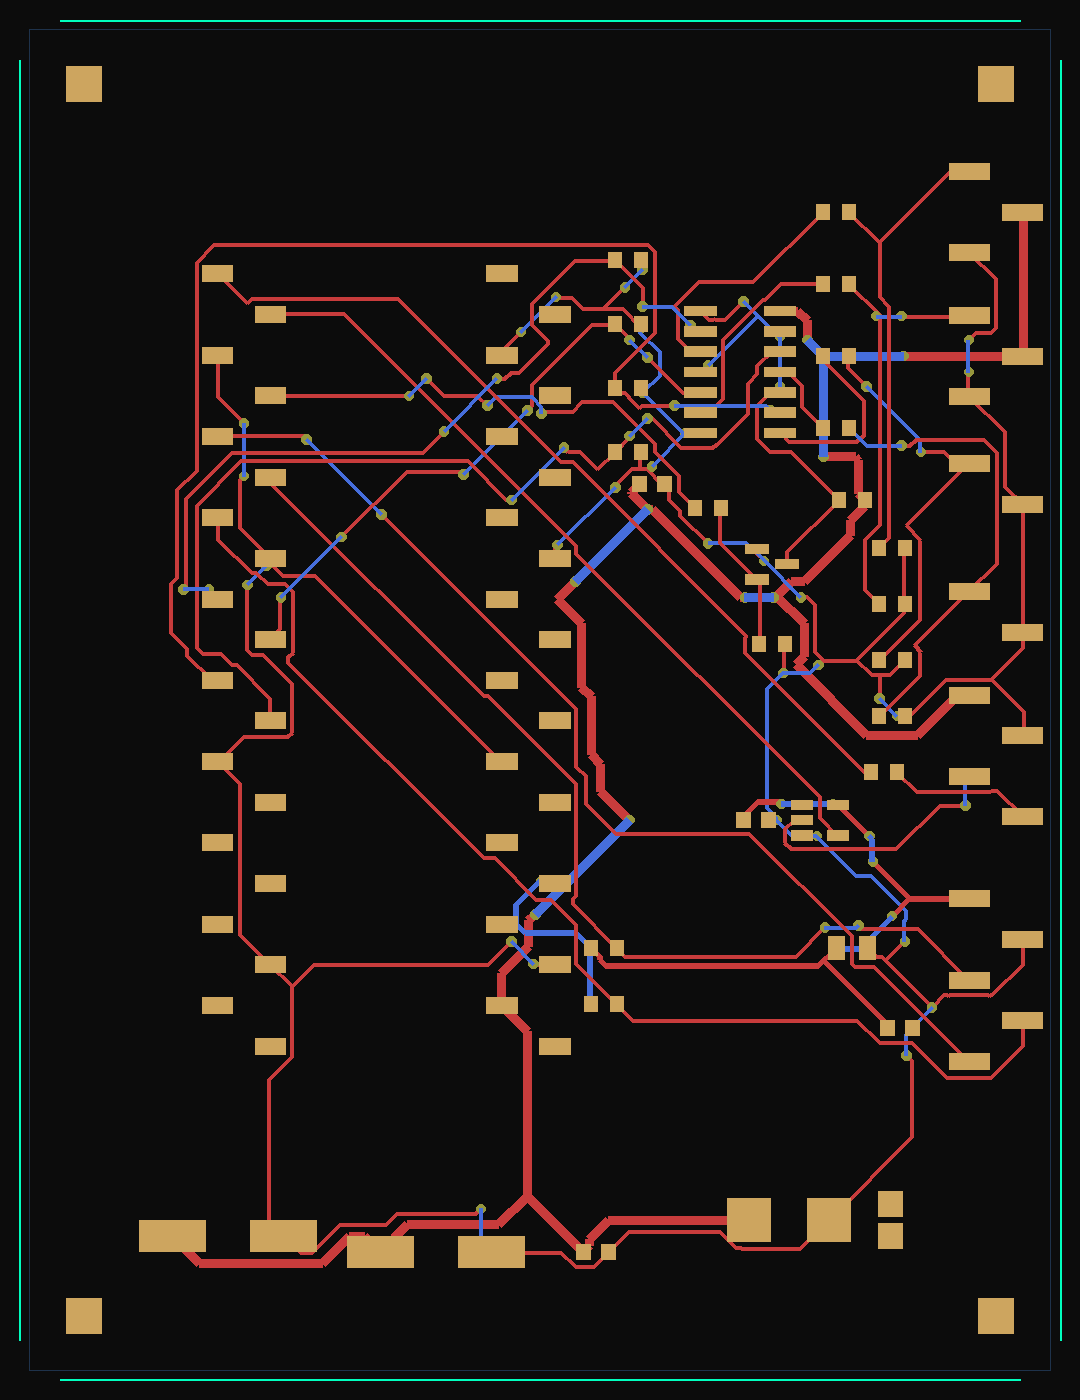
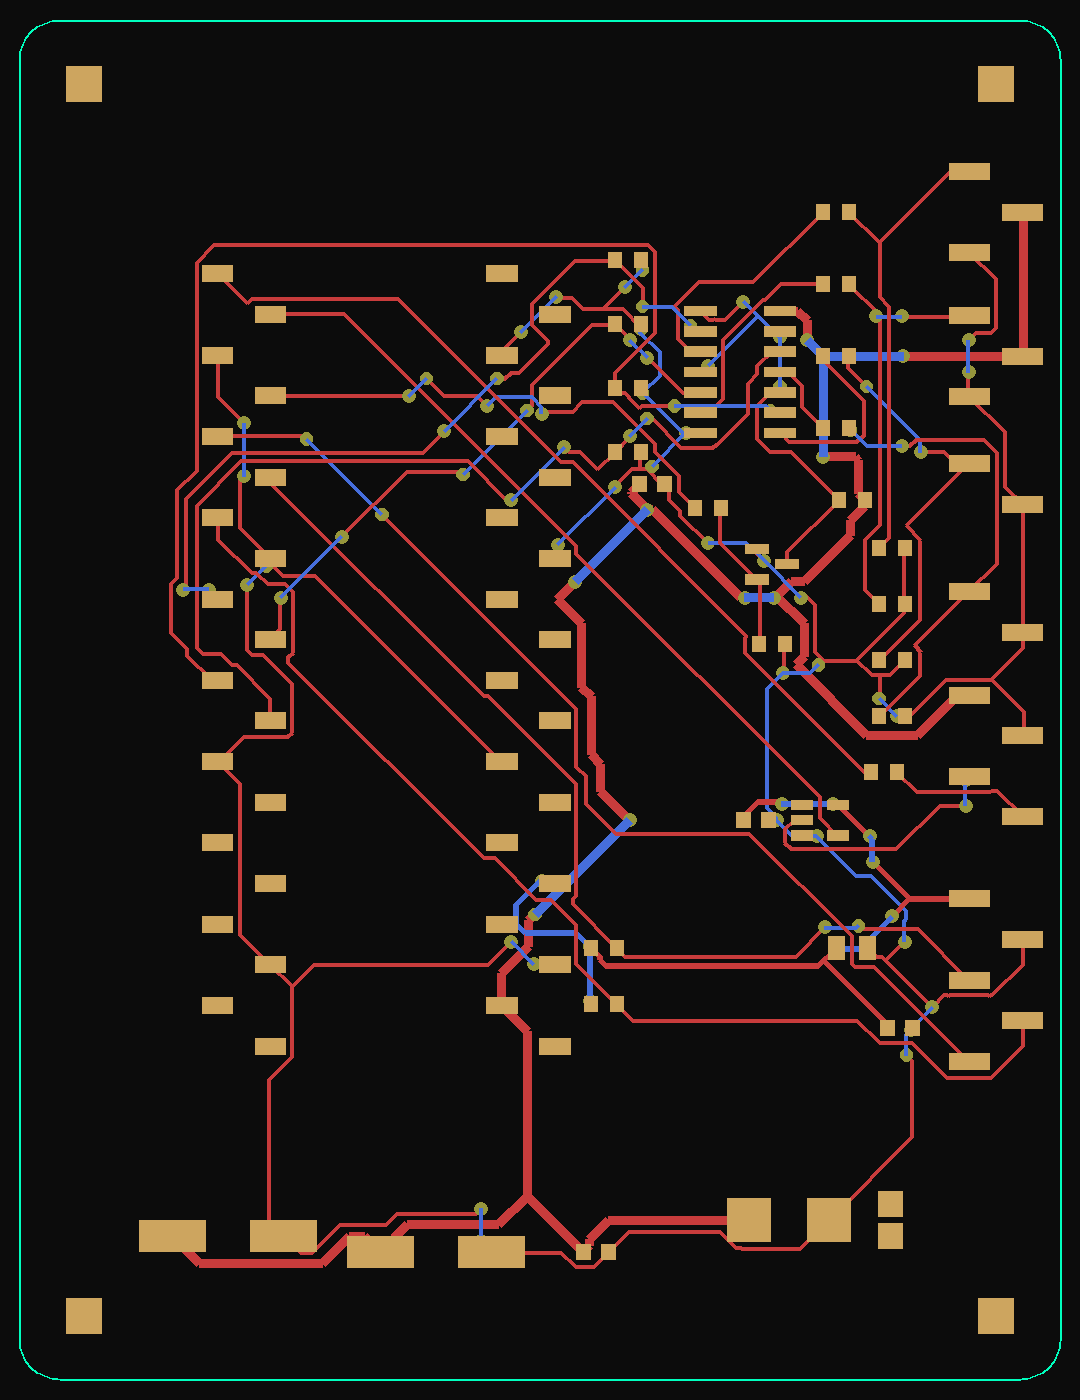
pcb v2: fix board-outline corner arcs and re-export fabrication data
The four corner arcs were drawn with the wrong sweep direction (long way round
instead of a quarter turn), so the outline corners were malformed. Arc start/end
swapped in the board file; DRC re-run (0 violations, 0 unconnected); Gerbers,
drill, CPL and previews re-exported. No copper or placement change.

diff --git a/docs/pcb_v2_smd_design.md b/docs/pcb_v2_smd_design.md
@@ -70,3 +70,10 @@ Netlist highlights (unchanged): GP6–GP9 → U1 inputs (with 10 k pull-downs R1
 1. **LCSC part numbers** are not yet in the BOM (values and footprints only). Needed for JLC SMT upload.
 2. **CPL format**: the exported file uses KiCad coordinates (negative Y). JLC accepts the KiCad option in its uploader; alternatively the Y axis must be flipped and rotations normalised.
 3. Order confirmation and a final visual check of `renders/refs_map.png`.
+
+## 8. Revision history
+
+| Date | Change |
+|---|---|
+| 2026-11-19 | First routed version (65 × 85 mm); 25 nets routed, DRC 0/0 |
+| 2026-11-20 | **Board outline fix**: the four corner arcs had been drawn with the wrong sweep direction — each arc took the long way round instead of a quarter turn, so the corners were malformed. Corrected in the board file (arc start/end swapped); DRC re-run (0 violations, 0 unconnected); Gerbers, drill file, CPL and preview re-exported. No copper or placement change. |

diff --git a/pcb/sr71_ctrl_v2/README.md b/pcb/sr71_ctrl_v2/README.md
@@ -2,6 +2,7 @@
 
 Board: 65 × 85 mm, 2 layers, 1.0 mm, 1 oz copper, 37 SMD parts + 4 × M2 mounting holes.
 Designed 2026-11-19; DRC clean (0 violations / 0 unconnected); **not yet ordered**.
+Revision 2026-11-20: the four board-outline corner arcs had the wrong sweep direction; fixed in the board file and the fabrication package re-exported.
 
 This board replaces the through-hole `pcb/e1_power_dist_2s/` board as the flight-intent control board. The battery / ESC / UBEC distribution moved off the board, so the board now starts at 5 V and can be assembled by a PCB house in one pass.
 
